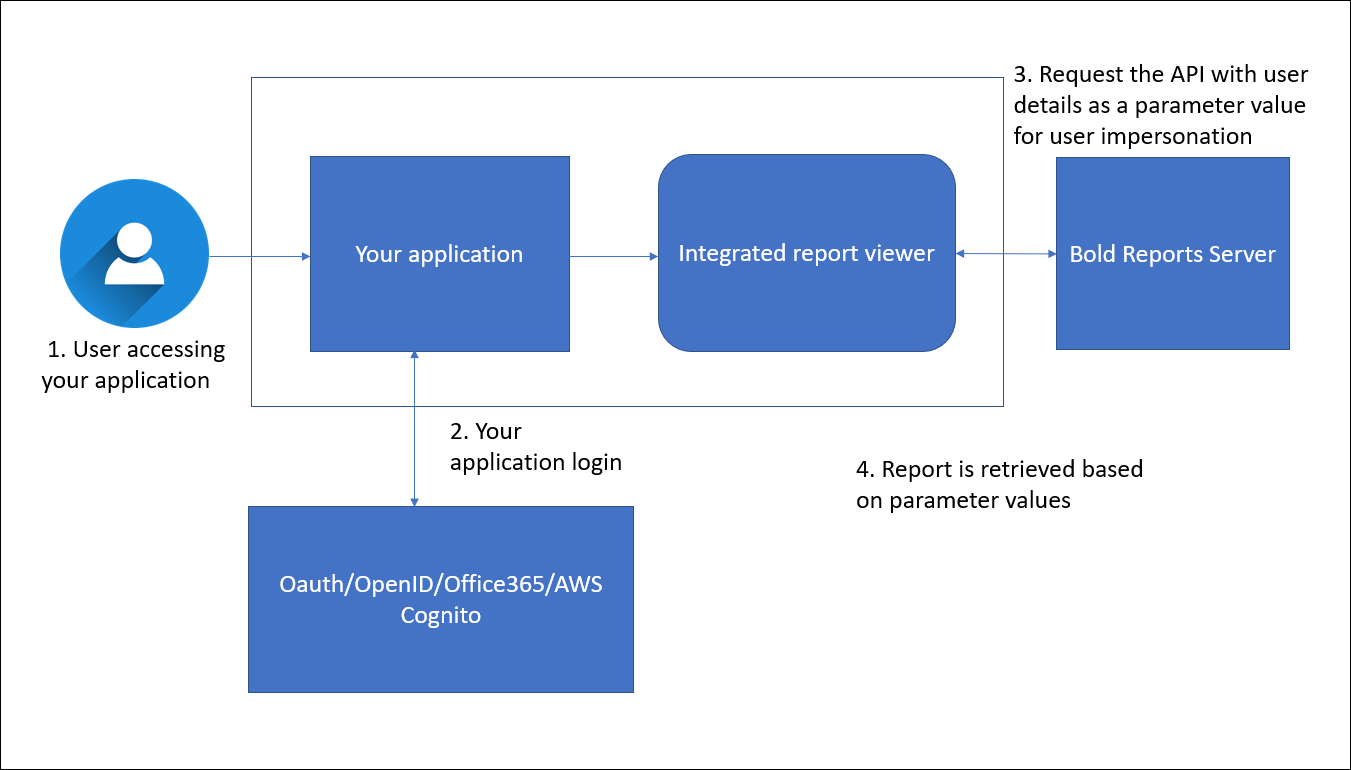
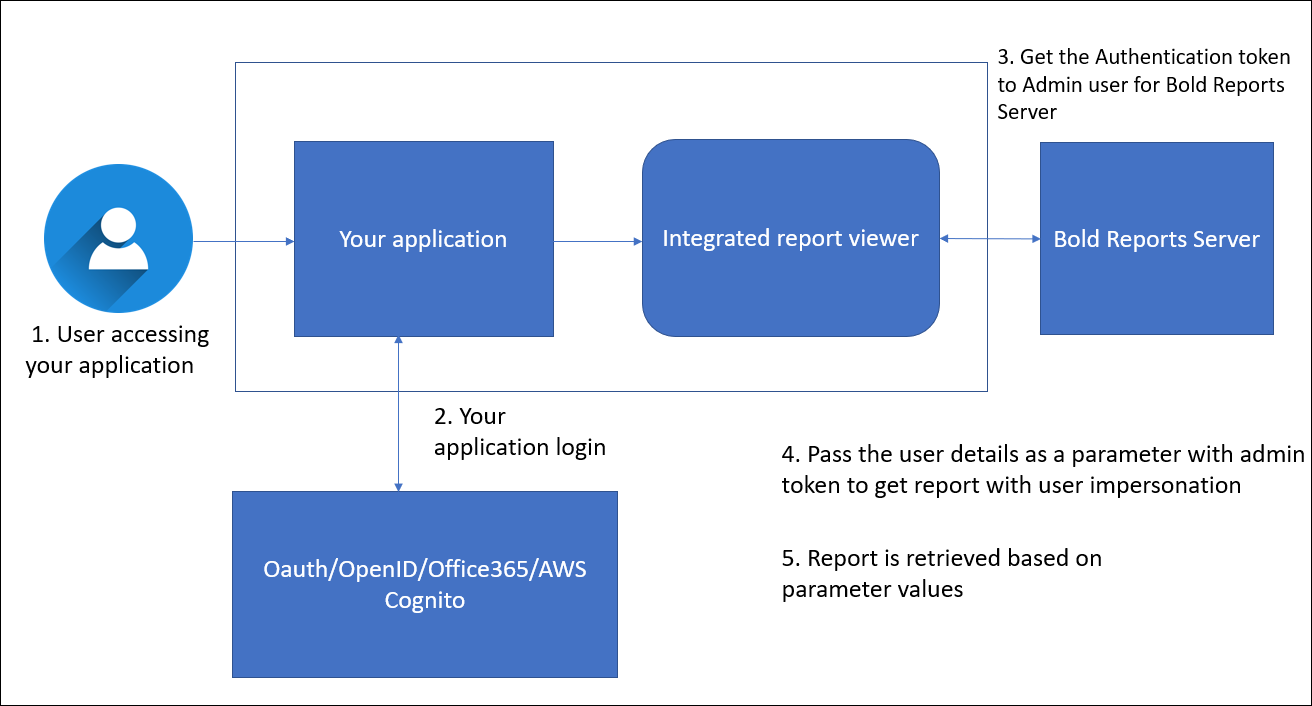
documentation(REPORT-21519): Review changes

diff --git a/docs/administrator-guide/how-to/embed-the-report-with-user-impersonation.md b/docs/administrator-guide/how-to/embed-the-report-with-user-impersonation.md
@@ -6,19 +6,18 @@ keywords: report-platform
 
 # How to embed the report with user impersonation
 
-This section explains how to get the report of a particular user from another application by passing the user's details as a parameter. We can maintain all the user reports of another application on the Bold Reports server. If you want to get the respective user details, you can get them by making an API request.
-
-Please follow the below steps to get the embed report with user impersonation from your existing application
-1. Login the user in your existing application
-2. Your application authenticate the user by AWS congnito/Oauth/OpenId/Office365
-3. Now we need to request the API to get the embed report for the respective user by passing user details as a parameter
-4. Get the API token for Admin user of Bold Report Server. You can use this token to request API to get the embed report for all the user. Please refer the [Report Parameter](https://help.boldreports.com/embedded-reporting/javascript-reporting/report-viewer/report-parameters/#set-parameter-at-client) documentation to get the embed report with user impersonation
-5. For example, if you want to get the report of a user whose employee ID is 1234, you need to get the token of the admin user and then pass the employee ID of the user as a parameter in the API request. The bold reports server will then handle the request and return the report to the respective user.
-
-   **Please find the below image for your reference**
-![User-impersonation](/static/assets/on-premise/images/how-to/user-impersonation.png)
-6. The Bold reports server handled the request and returned the report for respective user
+This section explains how to get the report of a particular user by passing the user's details as a parameter. We can maintain all the user reports on the Bold Reports server. If you want to get the respective user details, you can get them by using admin authentication token and user details as a parameter.
 
 Please find the below flowchart for get the embed report with user impersonation
 
 ![User-impersonation-image](/static/assets/on-premise/images/how-to/user-impersonation-image.png)
+
+Please follow the below steps to embed report with user impersonation from your existing application
+1. Login the user in your existing application and Your application authenticate the user by AWS congnito/Oauth/OpenId/Office365
+2. If you want to get the embed report with user impersonation, then you need to integrate the Bold Reports Viewer. Please refer [here](https://help.boldreports.com/enterprise-reporting/developer-guide/embed-in-application/view-report-through-report-viewer/) to integrate Viewer.
+3. Once you have done the viewer integration, you have to get the authentication token for the admin user of the Bold Report Server. You can use this token for all the users to get the embed report with user impersonation by passing user details as a parameter. Please refer [Report Parameter](https://help.boldreports.com/embedded-reporting/javascript-reporting/report-viewer/report-parameters/#set-parameter-at-client) documentation for the same.
+4. For example, if you want to get the report of a user whose employee ID is 1234, you need to get the token of the admin user and then pass the employee ID of the user as a parameter in the API request. The bold reports server will then handle the request and return the report to the respective user.
+
+   **Please find the below image for your reference**
+![User-impersonation](/static/assets/on-premise/images/how-to/user-impersonation.png)
+5. The Bold reports server handled the request and returned the report for respective user.
